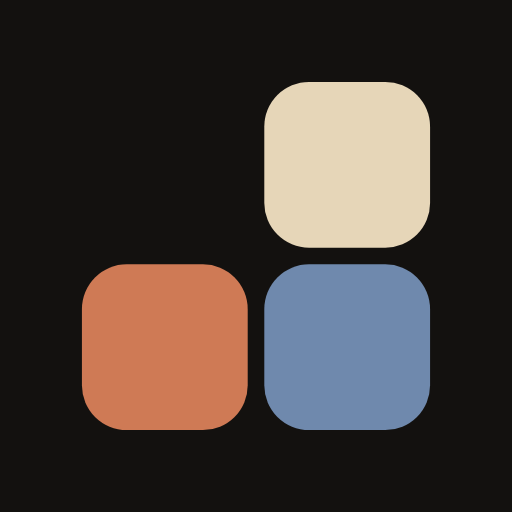
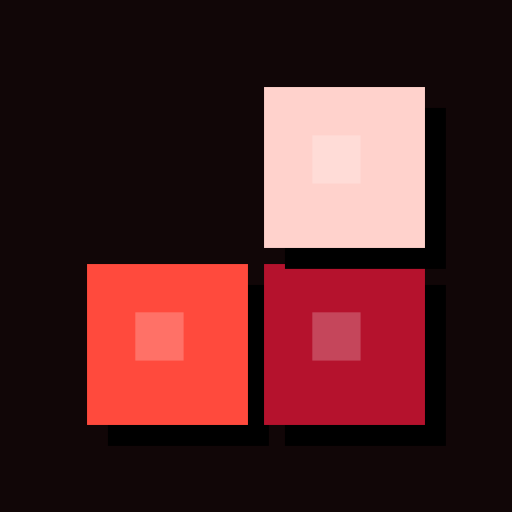
Blocky red redesign; trim pause menu
- New look: square corners, 2px outlines and hard offset shadows on every
  button and panel; buttons sink into their shadow when pressed
- Palette is now shades of red (pieces spread from blush to maroon by
  lightness so they stay readable); square tiles; new red icons
- Pause menu is just Resume and Main menu (which saves the game)

Claude-Session: https://claude.ai/code/session_01BT1jZe8d6HXkBnDHhF6KrE

diff --git a/index.html b/index.html
@@ -6,56 +6,63 @@
 <meta name="apple-mobile-web-app-capable" content="yes">
 <meta name="mobile-web-app-capable" content="yes">
 <meta name="apple-mobile-web-app-title" content="T-TsL">
-<meta name="theme-color" content="#13110f">
+<meta name="theme-color" content="#110607">
 <title>T-TsL</title>
 <link rel="manifest" href="manifest.webmanifest">
 <link rel="apple-touch-icon" href="icons/icon-180.png">
 <link rel="icon" href="icons/icon-192.png">
 <style>
-:root{--bg:#13110f;--panel:#1b1815;--ink:#efe8dc;--dim:#8d847a;--line:#2d2824;--accent:#d98b5f}
+:root{--f:"SF Pro Display","Helvetica Neue",system-ui,-apple-system,"Segoe UI",Roboto,Arial,sans-serif;--bg:#110607;--panel:#1c0a0c;--panel2:#26100f;--line:#4a1a1e;--edge:#000;--ink:#fbe9e6;--dim:#b4878a;--accent:#e2312c;--accent2:#8f1418}
 *{box-sizing:border-box;-webkit-tap-highlight-color:transparent;-webkit-user-select:none;user-select:none;-webkit-touch-callout:none}
-html,body{margin:0;height:100%;background:var(--bg);color:var(--ink);font-family:ui-rounded,"SF Pro Rounded",system-ui,-apple-system,"Segoe UI",Roboto,sans-serif;overflow:hidden;overscroll-behavior:none}
+html,body{margin:0;height:100%;background:var(--bg);color:var(--ink);font-family:"SF Pro Display","Helvetica Neue",system-ui,-apple-system,"Segoe UI",Roboto,Arial,sans-serif;overflow:hidden;overscroll-behavior:none}
 body{position:fixed;inset:0;touch-action:none}
 canvas{position:absolute;inset:0;width:100%;height:100%;display:block;pointer-events:none}
 #cvFx{pointer-events:auto;touch-action:none}
-#pauseBtn{position:fixed;width:40px;height:40px;border-radius:20px;border:1px solid var(--line);background:var(--panel);color:var(--dim);font:600 13px/1 inherit;letter-spacing:1px;display:none;z-index:5}
-#pad{position:fixed;left:0;right:0;bottom:0;display:flex;justify-content:space-between;align-items:flex-end;padding:10px 14px 16px;gap:12px;z-index:4;touch-action:none}
+/* blocky buttons: square corners, heavy outline, hard offset shadow that collapses on press */
+button{font-family:inherit}
+#pauseBtn,.cl button,.btn,.seg{border-radius:0}
+#pauseBtn{position:fixed;display:none;z-index:5;border:2px solid var(--line);background:var(--panel2);color:var(--ink);font:900 14px/1 var(--f);letter-spacing:2px;box-shadow:3px 3px 0 var(--edge)}
+#pauseBtn:active{transform:translate(2px,2px);box-shadow:1px 1px 0 var(--edge)}
+#pad{position:fixed;left:0;right:0;bottom:0;display:flex;justify-content:space-between;align-items:flex-end;padding:10px 14px 18px;gap:12px;z-index:4;touch-action:none}
 #pad.mirror{flex-direction:row-reverse}
 #pad[hidden]{display:none}
-.cl{display:grid;grid-template-columns:repeat(2,66px);gap:9px}
-.cl button{height:58px;border-radius:16px;border:1px solid var(--line);background:var(--panel);color:var(--ink);font:600 22px/1 inherit;touch-action:none}
-.cl button.sm{font-size:15px;letter-spacing:.3px}
+.cl{display:grid;grid-template-columns:repeat(2,66px);gap:10px}
+.cl button{height:58px;border:2px solid var(--line);background:var(--panel2);color:var(--ink);font:900 22px/1 var(--f);touch-action:none;box-shadow:4px 4px 0 var(--edge)}
+.cl button.sm{font-size:13px;letter-spacing:1.5px;text-transform:uppercase}
 .cl button.wide{grid-column:span 2}
-.cl button.on{background:#2a2521;border-color:#4a413a}
-#ov{position:fixed;inset:0;display:flex;align-items:center;justify-content:center;background:rgba(15,13,11,.84);-webkit-backdrop-filter:blur(6px);backdrop-filter:blur(6px);z-index:10;padding:20px;overflow:auto;touch-action:pan-y}
+.cl button.on{transform:translate(3px,3px);box-shadow:1px 1px 0 var(--edge);background:var(--accent2);border-color:var(--accent)}
+#ov{position:fixed;inset:0;display:flex;align-items:flex-start;justify-content:center;background:rgba(14,4,5,.9);-webkit-backdrop-filter:blur(4px);backdrop-filter:blur(4px);z-index:10;padding:28px 20px;overflow:auto;touch-action:pan-y}
 #ov[hidden]{display:none}
-.card{width:100%;max-width:360px;display:flex;flex-direction:column;gap:10px;margin:auto}
-.card h1{margin:4px 0 0;font-size:40px;letter-spacing:-1px;font-weight:700}
-.card h2{margin:0 0 4px;font-size:26px;font-weight:700}
-.sub{margin:0 0 14px;color:var(--dim);font-size:14px}
-.btn{display:flex;justify-content:space-between;align-items:center;width:100%;padding:16px 18px;border-radius:16px;border:1px solid var(--line);background:var(--panel);color:var(--ink);font:600 17px/1 inherit;text-align:left}
-.btn span{color:var(--dim);font-weight:500;font-size:13px}
-.btn.primary{background:var(--accent);border-color:var(--accent);color:#1a120d}
-.btn.primary span{color:#4a2f20}
-.btn.quiet{background:transparent;justify-content:center;color:var(--dim)}
-.stats{display:grid;grid-template-columns:1fr 1fr;gap:8px;margin:6px 0 10px}
-.stat{background:var(--panel);border:1px solid var(--line);border-radius:14px;padding:12px}
-.stat b{display:block;font-size:22px;margin-top:4px}
-.stat small{color:var(--dim);font-size:11px;letter-spacing:1px;text-transform:uppercase}
-.set{background:var(--panel);border:1px solid var(--line);border-radius:16px;padding:14px;display:flex;flex-direction:column;gap:14px}
-.set h3{margin:0;font-size:12px;letter-spacing:1.2px;text-transform:uppercase;color:var(--dim);font-weight:600}
-.row label{display:flex;justify-content:space-between;gap:10px;font-size:15px;margin-bottom:8px}
+.card{width:100%;max-width:360px;display:flex;flex-direction:column;gap:12px;margin:auto}
+.card h1{margin:6px 0 0;font-size:46px;letter-spacing:-1px;font-weight:900;text-transform:uppercase;line-height:1}
+.card h2{margin:0 0 2px;font-size:28px;font-weight:900;text-transform:uppercase;letter-spacing:-.5px}
+.sub{margin:0 0 10px;color:var(--dim);font-size:14px;line-height:1.4}
+.grp{margin:10px 0 -2px;font-size:11px;letter-spacing:2.5px;text-transform:uppercase;font-weight:800;color:var(--accent)}
+.btn{display:flex;justify-content:space-between;align-items:center;width:100%;padding:16px 16px;border:2px solid var(--line);background:var(--panel2);color:var(--ink);font:800 16px/1 var(--f);letter-spacing:1.2px;text-transform:uppercase;text-align:left;box-shadow:5px 5px 0 var(--edge);transition:transform .05s,box-shadow .05s}
+.btn:active{transform:translate(3px,3px);box-shadow:2px 2px 0 var(--edge)}
+.btn span{color:var(--dim);font-weight:700;font-size:12px;letter-spacing:.8px}
+.btn.primary{background:var(--accent);border-color:#ff6a5c;color:#fff}
+.btn.primary span{color:#ffd9d4}
+.btn.quiet{background:transparent;justify-content:center;color:var(--dim);box-shadow:none;border-style:dashed}
+.btn.quiet:active{transform:none}
+.stats{display:grid;grid-template-columns:1fr 1fr;gap:10px;margin:4px 0 8px}
+.stat{background:var(--panel);border:2px solid var(--line);padding:12px;box-shadow:4px 4px 0 var(--edge)}
+.stat b{display:block;font-size:22px;margin-top:4px;font-weight:900}
+.stat small{color:var(--dim);font-size:11px;letter-spacing:1.5px;text-transform:uppercase;font-weight:700}
+.set{background:var(--panel);border:2px solid var(--line);padding:14px;display:flex;flex-direction:column;gap:14px;box-shadow:5px 5px 0 var(--edge)}
+.set h3{margin:0;font-size:11px;letter-spacing:2.5px;text-transform:uppercase;color:var(--accent);font-weight:800}
+.row label{display:flex;justify-content:space-between;gap:10px;font-size:15px;font-weight:600;margin-bottom:8px}
 .row label em{font-style:normal;color:var(--dim);font-variant-numeric:tabular-nums;white-space:nowrap}
 .row p,.note{margin:6px 0 0;font-size:12px;color:var(--dim);line-height:1.45}
 input[type=range]{width:100%;accent-color:var(--accent);touch-action:pan-x}
-.seg{display:grid;grid-template-columns:1fr 1fr;background:#14120f;border-radius:12px;padding:3px;gap:3px}
-.seg button{padding:11px;border:0;border-radius:10px;background:transparent;color:var(--dim);font:600 15px/1 inherit}
-.seg button.on{background:#2c2622;color:var(--ink)}
-.tog{display:flex;justify-content:space-between;align-items:center;font-size:15px}
-.tog input{width:22px;height:22px;accent-color:var(--accent)}
+.seg{display:grid;grid-template-columns:1fr 1fr;background:var(--bg);padding:3px;gap:3px;border:2px solid var(--line)}
+.seg button{padding:11px;border:0;border-radius:0;background:transparent;color:var(--dim);font:800 13px/1 var(--f);letter-spacing:1.2px;text-transform:uppercase}
+.seg button.on{background:var(--accent);color:#fff}
+.tog{display:flex;justify-content:space-between;align-items:center;font-size:15px;font-weight:600;gap:12px}
+.tog input{width:22px;height:22px;accent-color:var(--accent);flex:none}
 .help{font-size:13px;color:var(--dim);line-height:1.55;margin:0}
-.help b{color:var(--ink);font-weight:600}
-.big{font-size:30px;font-weight:700;letter-spacing:-1px;margin:2px 0 0;font-variant-numeric:tabular-nums}
+.help b{color:var(--ink);font-weight:700}
+.big{font-size:30px;font-weight:900;letter-spacing:-.5px;margin:2px 0 0;font-variant-numeric:tabular-nums;text-transform:uppercase}
 #hx{position:fixed;left:-200px;top:0;width:1px;height:1px;opacity:0;pointer-events:none}
 </style>
 </head>
@@ -72,7 +79,7 @@ input[type=range]{width:100%;accent-color:var(--accent);touch-action:pan-x}
 // ================= constants =================
 const W=10,H=40,VIS=20,TOP=H-VIS;
 const TYPES=['I','O','T','S','Z','J','L'];
-const COLORS={I:'#e6d6b8',O:'#cf7a55',T:'#94ae8b',S:'#6f89ad',Z:'#b07f9e',J:'#d6aa4b',L:'#5ea39d'};
+const COLORS={I:'#ffd2cc',O:'#ff4a3d',T:'#b5122d',S:'#ff8f80',Z:'#7e1020',J:'#e0606e',L:'#c43a22'};
 const SHAPES={I:[[0,1],[1,1],[2,1],[3,1]],O:[[1,0],[2,0],[1,1],[2,1]],T:[[1,0],[0,1],[1,1],[2,1]],S:[[1,0],[2,0],[0,1],[1,1]],Z:[[0,0],[1,0],[1,1],[2,1]],J:[[0,0],[0,1],[1,1],[2,1]],L:[[2,0],[0,1],[1,1],[2,1]]};
 const SIZE={I:4,O:4,T:3,S:3,Z:3,J:3,L:3};
 const ROT={};
@@ -417,8 +424,10 @@ function rr(c,x,y,w,h,r){c.beginPath();if(c.roundRect)c.roundRect(x,y,w,h,r);els
 function mkSprite(s,col,kind){
   const cv=document.createElement('canvas'),px=Math.max(2,Math.round(s*DPR));cv.width=cv.height=px;
   const c=cv.getContext('2d');c.scale(px/s,px/s);
-  if(kind==='ghost'){const p=Math.max(1.5,s*0.1);c.strokeStyle=col;c.globalAlpha=0.5;c.lineWidth=Math.max(1.5,s*0.07);rr(c,p,p,s-2*p,s-2*p,s*0.2);c.stroke()}
-  else{const p=Math.max(1,s*0.06);c.fillStyle=col;rr(c,p,p,s-2*p,s-2*p,s*0.22);c.fill();c.fillStyle='rgba(255,255,255,0.13)';rr(c,s*0.26,s*0.26,s*0.48,s*0.48,s*0.14);c.fill()}
+  if(kind==='ghost'){const lw=Math.max(1.5,s*0.08),p=Math.max(1,s*0.05)+lw/2;c.strokeStyle=col;c.globalAlpha=0.55;c.lineWidth=lw;c.strokeRect(p,p,s-2*p,s-2*p)}
+  else{const p=Math.max(1,s*0.05);c.fillStyle=col;c.fillRect(p,p,s-2*p,s-2*p);
+    c.fillStyle='rgba(0,0,0,0.28)';c.fillRect(p,s-p-s*0.14,s-2*p,s*0.14);c.fillRect(s-p-s*0.14,p,s*0.14,s-2*p);
+    c.fillStyle='rgba(255,255,255,0.22)';c.fillRect(s*0.3,s*0.3,s*0.3,s*0.3)}
   return cv;
 }
 function buildSprites(){
@@ -436,23 +445,25 @@ function layout(){
   const by=Math.round(topPad+cell*0.9+Math.max(0,(h-topPad-padH-cell*21.4)/2));
   L={w,h,cell,bw,bh,bx,by,side:Math.round(cell*2.5),gap:Math.round(cell*0.3)};
   L.lx=bx-L.gap-L.side;L.rx=bx+bw+L.gap;
-  {const sz=Math.max(36,Math.min(48,L.side*0.8));Object.assign(pauseBtn.style,{width:sz+'px',height:sz+'px',borderRadius:sz/2+'px',left:Math.round(L.rx+L.side/2-sz/2)+'px',top:Math.round(by+cell*8.35+cell*0.5)+'px'})}
+  {const sz=Math.max(36,Math.min(48,L.side*0.8));Object.assign(pauseBtn.style,{width:sz+'px',height:sz+'px',left:Math.round(L.rx+L.side/2-sz/2)+'px',top:Math.round(by+cell*8.35+cell*0.5)+'px'})}
   sizeCanvas(cvBg,xb);sizeCanvas(cvBd,xd);sizeCanvas(cvFx,xf);
   buildSprites();drawBg();dirty=true;
 }
 addEventListener('resize',()=>{layout();if(g)drawBoard()});
-const FONT='ui-rounded,system-ui,sans-serif';
+const FONT='"SF Pro Display","Helvetica Neue",system-ui,sans-serif';
 function drawBg(){
   const{w,h,cell,bw,bh,bx,by,side,lx,rx}=L;
-  xb.fillStyle='#13110f';xb.fillRect(0,0,w,h);
+  xb.fillStyle='#110607';xb.fillRect(0,0,w,h);
   if(!g)return;
-  xb.fillStyle='#1b1815';rr(xb,bx-5,by-5,bw+10,bh+10,12);xb.fill();
-  xb.fillStyle='rgba(255,255,255,0.07)';
+  const boxes=[[lx,by+cell*0.75,side,cell*2.2],[rx,by+cell*0.75,side,cell*7.6],[bx-5,by-5,bw+10,bh+10]];
+  xb.fillStyle='#000';for(const[x,y,ww,hh]of boxes)xb.fillRect(x+5,y+5,ww,hh);
+  for(const[x,y,ww,hh]of boxes){xb.fillStyle='#1c0a0c';xb.fillRect(x,y,ww,hh);xb.strokeStyle='#4a1a1e';xb.lineWidth=2;xb.strokeRect(x+1,y+1,ww-2,hh-2)}
+  xb.fillStyle='rgba(255,200,200,0.07)';
   for(let r=1;r<20;r++)for(let c=1;c<10;c++)xb.fillRect(bx+c*cell-1,by+r*cell-1,2,2);
-  xb.fillStyle='#1b1815';rr(xb,lx,by+cell*0.75,side,cell*2.2,10);xb.fill();rr(xb,rx,by+cell*0.75,side,cell*7.6,10);xb.fill();
-  xb.textAlign='center';xb.fillStyle='#8d847a';xb.font=`600 ${Math.max(9,cell*0.42)}px ${FONT}`;
+
+  xb.textAlign='center';xb.fillStyle='#e2312c';xb.font=`800 ${Math.max(9,cell*0.4)}px ${FONT}`;
   xb.fillText('HOLD',lx+side/2,by+cell*0.45);xb.fillText('NEXT',rx+side/2,by+cell*0.45);
-  xb.textAlign='left';xb.fillStyle='#5f5850';xb.font=`600 ${Math.max(9,cell*0.4)}px ${FONT}`;
+  xb.textAlign='left';xb.fillStyle='#7d5557';xb.font=`800 ${Math.max(9,cell*0.38)}px ${FONT}`;
   xb.fillText((MODE_NAMES[g.mode]+'  ·  '+(g.mode==='marathon'||g.mode==='master'?'from ':'')+lvShort(g.start)+(g.endless?' · endless':'')).toUpperCase(),Math.max(12,lx),30);
 }
 function mini(c,set,t,cx,cy,s,a){
@@ -477,11 +488,11 @@ function drawFx(){
   const{w,h,cell,bw,bh,bx,by,side,lx}=L;
   xf.clearRect(0,0,w,h);
   if(!g||state==='menu'){fxWasClear=true;return}
-  if(g.flash){const a=1-(g.time-g.flash.t)/200;if(a>0){xf.fillStyle=`rgba(255,244,228,${0.5*a})`;for(const r of g.flash.rows)xf.fillRect(bx,by+r*cell,bw,cell)}else g.flash=null}
+  if(g.flash){const a=1-(g.time-g.flash.t)/200;if(a>0){xf.fillStyle=`rgba(255,225,220,${0.55*a})`;for(const r of g.flash.rows)xf.fillRect(bx,by+r*cell,bw,cell)}else g.flash=null}
   if(g.pending&&g.areMax){const p=Math.min(1,1-g.areT/g.areMax);
     for(const y of g.pending){const r=y-TOP;if(r<0)continue;const ww=bw*Math.min(1,p*1.2);
-      xf.fillStyle=`rgba(255,244,228,${0.5*(1-p)})`;xf.fillRect(bx,by+r*cell,bw,cell);
-      xf.fillStyle='#1b1815';xf.fillRect(bx+(bw-ww)/2,by+r*cell,ww,cell)}}
+      xf.fillStyle=`rgba(255,225,220,${0.55*(1-p)})`;xf.fillRect(bx,by+r*cell,bw,cell);
+      xf.fillStyle='#1c0a0c';xf.fillRect(bx+(bw-ww)/2,by+r*cell,ww,cell)}}
   if(g.dropFx){const a=1-(g.time-g.dropFx.t0)/140;if(a>0&&g.dropFx.n>1){const d=g.dropFx;xf.fillStyle=COLORS[d.t];xf.globalAlpha=0.16*a;
       let minx=9,maxx=-1,miny=99;for(const[cx,cy]of ROT[d.t][d.r]){minx=Math.min(minx,cx);maxx=Math.max(maxx,cx);miny=Math.min(miny,cy)}
       const top=Math.max(0,d.y+miny-d.n-TOP);xf.fillRect(bx+(d.x+minx)*cell+cell*0.1,by+top*cell,(maxx-minx+1)*cell-cell*0.2,(d.y+miny-TOP-top)*cell);xf.globalAlpha=1}else g.dropFx=null}
@@ -495,8 +506,8 @@ function drawFx(){
   }
   // stats
   xf.textAlign='center';let sy=by+cell*4.4;const cx=lx+side/2;
-  const lf=`600 ${Math.max(9,cell*0.42)}px ${FONT}`,vf=`700 ${Math.max(11,cell*0.62)}px ${FONT}`;
-  const stat=(l,v)=>{xf.font=lf;xf.fillStyle='#8d847a';xf.fillText(l,cx,sy);xf.font=vf;xf.fillStyle='#efe8dc';xf.fillText(v,cx,sy+cell*0.8);sy+=cell*1.75};
+  const lf=`800 ${Math.max(9,cell*0.38)}px ${FONT}`,vf=`900 ${Math.max(11,cell*0.62)}px ${FONT}`;
+  const stat=(l,v)=>{xf.font=lf;xf.fillStyle='#b4878a';xf.fillText(l,cx,sy);xf.font=vf;xf.fillStyle='#fbe9e6';xf.fillText(v,cx,sy+cell*0.8);sy+=cell*1.75};
   const m=g.mode;
   if(m==='sprint'){stat('TIME',fmtTime(g.time));stat('LINES',Math.max(0,40-g.lines)+' left');stat('PPS',(g.pieces/Math.max(1,g.time/1000)).toFixed(2))}
   else if(m==='ultra'){stat('TIME',fmtTime(Math.max(0,180000-g.time)));stat('SCORE',fmtNum(g.score));stat('LINES',String(g.lines))}
@@ -507,14 +518,14 @@ function drawFx(){
   // messages
   if(g.msgs.length){
     let k=0;for(let i=0;i<g.msgs.length;i++)if(g.time-g.msgs[i].t<1500)g.msgs[k++]=g.msgs[i];g.msgs.length=k;
-    xf.font=`700 ${Math.max(13,cell*0.72)}px ${FONT}`;xf.fillStyle='#f4c9a8';
+    xf.font=`900 ${Math.max(13,cell*0.7)}px ${FONT}`;xf.fillStyle='#ffd2cc';
     const show=g.msgs.slice(-2);
     show.forEach((m,i)=>{const age=g.time-m.t;xf.globalAlpha=Math.min(1,(1500-age)/400);xf.fillText(m.text,bx+bw/2,by+bh*0.36-age/1500*cell*0.8-(show.length-1-i)*cell*1.1)});
     xf.globalAlpha=1;
   }
   if(g.hint&&S.control==='drag'&&state==='play'){
-    xf.fillStyle='rgba(19,17,15,0.8)';rr(xf,bx+cell*0.5,by+bh*0.55,bw-cell,cell*4.2,12);xf.fill();
-    xf.fillStyle='#cfc6ba';xf.font=`500 ${Math.max(11,cell*0.5)}px ${FONT}`;
+    xf.fillStyle='rgba(17,6,7,0.88)';xf.fillRect(bx+cell*0.5,by+bh*0.55,bw-cell,cell*4.2);xf.strokeStyle='#4a1a1e';xf.lineWidth=2;xf.strokeRect(bx+cell*0.5,by+bh*0.55,bw-cell,cell*4.2);
+    xf.fillStyle='#e9cfcc';xf.font=`600 ${Math.max(11,cell*0.48)}px ${FONT}`;
     ['Drag sideways · move','Tap left / right · rotate','Drag down · soft drop','Flick down · drop   Flick up · hold   (no need to lift)'].forEach((t,i)=>xf.fillText(t,bx+bw/2,by+bh*0.55+cell*(0.95+i*0.95)));
   }
   fxWasClear=false;
@@ -536,7 +547,7 @@ function frame(now){
 const ov=document.getElementById('ov');
 function hideOv(){ov.hidden=true;ov.innerHTML=''}
 function showOv(html){ov.innerHTML=html;ov.hidden=false;ov.scrollTop=0}
-const LOGO=`<svg width="52" height="52" viewBox="0 0 52 52"><rect x="2" y="26" width="22" height="22" rx="6" fill="${COLORS.O}"/><rect x="26" y="26" width="22" height="22" rx="6" fill="${COLORS.S}"/><rect x="26" y="2" width="22" height="22" rx="6" fill="${COLORS.I}"/></svg>`;
+const LOGO=`<svg width="56" height="56" viewBox="0 0 56 56"><rect x="5" y="31" width="22" height="22" fill="#000"/><rect x="31" y="31" width="22" height="22" fill="#000"/><rect x="31" y="5" width="22" height="22" fill="#000"/><rect x="2" y="28" width="22" height="22" fill="${COLORS.O}"/><rect x="28" y="28" width="22" height="22" fill="${COLORS.T}"/><rect x="28" y="2" width="22" height="22" fill="${COLORS.I}"/></svg>`;
 function bestLabel(m){const b=BEST[m];if(b==null)return'';return m==='sprint'?'best '+fmtTime(b):(m==='zen'||m==='still'||m==='master')?'best '+b+' lines':'best '+fmtNum(b)}
 function showMenu(){
   if(updReady){location.reload();return}
@@ -544,7 +555,7 @@ function showMenu(){
   const saved=store.get('tessel.save',null);
   showOv(`<div class="card">${LOGO}<h1>T-TsL</h1><p class="sub">Stack. Clear. Repeat.</p>
   ${saved?`<button class="btn primary" data-a="continue">Continue<span>${MODE_NAMES[saved.mode]}</span></button>`:''}
-  ${MODE_LIST.map(([grp,ms])=>`<p class="note" style="margin:8px 0 0;letter-spacing:1.2px;text-transform:uppercase;font-weight:600">${grp}</p>`+ms.map(m=>`<button class="btn" data-a="setup-${m}">${MODE_NAMES[m]}<span>${m==='still'?'no gravity':lvShort(S.lv[m])}${bestLabel(m)?' · '+bestLabel(m):''}</span></button>`).join('')).join('')}
+  ${MODE_LIST.map(([grp,ms])=>`<p class="grp">${grp}</p>`+ms.map(m=>`<button class="btn" data-a="setup-${m}">${MODE_NAMES[m]}<span>${m==='still'?'no gravity':lvShort(S.lv[m])}${bestLabel(m)?' · '+bestLabel(m):''}</span></button>`).join('')).join('')}
   <button class="btn quiet" data-a="settings">Controls, haptics & settings</button></div>`);
 }
 const MODE_NOTE={marathon:'150 lines, speeding up every 10. Past Lv 20 it climbs into the Master curve (M1–M30).',sprint:'Clear 40 lines as fast as you can. Speed stays fixed.',ultra:'Score as much as you can in 3 minutes. Speed stays fixed.',master:'20G the whole way. Every 10 lines the lock delay and line-clear pause shrink, through M30.',zen:'No game over: topping out wipes the field and score and you keep going. Pick any speed, Lv 1 through M30; it stays fixed.',still:'No gravity, no lock timer, no game over. Pieces sit until you drop them, so you can plan every placement.',countdown:'5 minutes. Every few pieces, an I piece drops straight down a random column.'};
@@ -565,9 +576,7 @@ function showSetup(m){
 function pauseGame(){if(state!=='play')return;state='pause';resetInput();save();
   showOv(`<div class="card"><h2>Paused</h2><p class="sub">${MODE_NAMES[g.mode]} · ${lvShort(g.level)}</p>
   <button class="btn primary" data-a="resume">Resume</button>
-  <button class="btn" data-a="restart">Restart</button>
-  <button class="btn" data-a="settings">Controls, haptics & settings</button>
-  <button class="btn quiet" data-a="menu">Main menu</button></div>`)}
+  <button class="btn" data-a="menu">Main menu<span>saves your game</span></button></div>`)}
 function resume(){if(!g)return;state='play';resetInput();last=performance.now();hideOv();drawBg();dirty=true}
 function endGame(win){
   state='over';resetInput();store.del('tessel.save');
@@ -660,7 +669,7 @@ addEventListener('pagehide',()=>save());
 
 window.__t={masterLock,masterClear,lockMs,gravMs,get g(){return g},get state(){return state},press,release,get L(){return L},newGame,lock,fits,perf,Hap,levelInterval};
 layout();showMenu();requestAnimationFrame(frame);
-const BUILD='20261101152559';
+const BUILD='20261101153207';
 function applyUpdate(){updReady=true;if(state==='menu'||state==='over')location.reload()}
 async function checkForUpdate(){
   try{

diff --git a/sw.js b/sw.js
@@ -1,7 +1,7 @@
 // Offline cache for T-TsL.
 // Opens instantly from cache, checks GitHub for a newer copy in the background
 // (bypassing the browser's HTTP cache), and tells the page when one arrives.
-const CACHE = 'ttsl-v3';
+const CACHE = 'ttsl-v4';
 const FILES = ['./', './index.html', './manifest.webmanifest', './icons/icon-180.png', './icons/icon-192.png', './icons/icon-512.png', './icons/icon-maskable-512.png'];
 
 self.addEventListener('install', e => {
